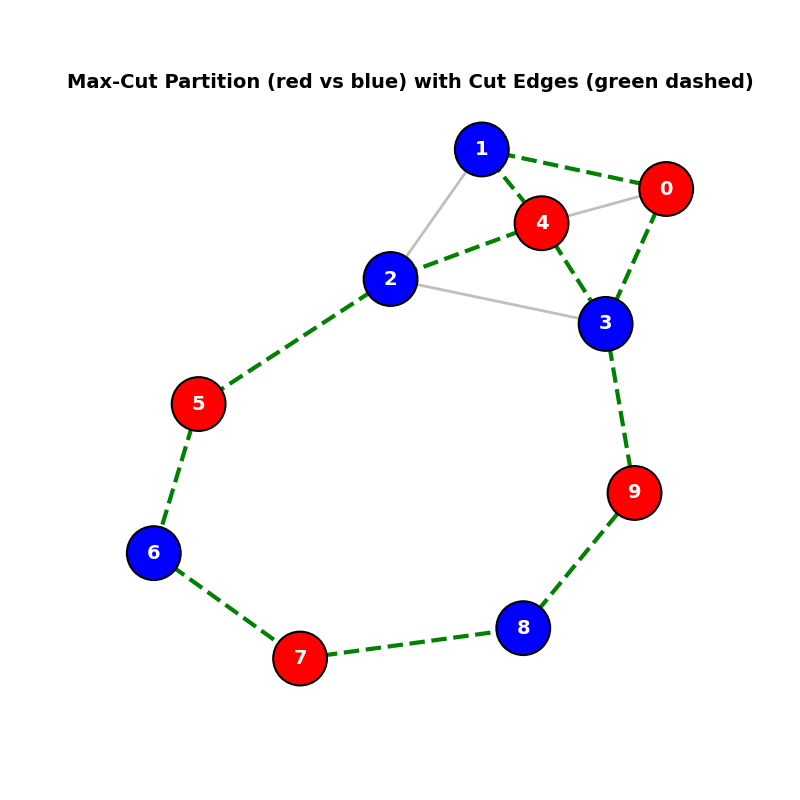
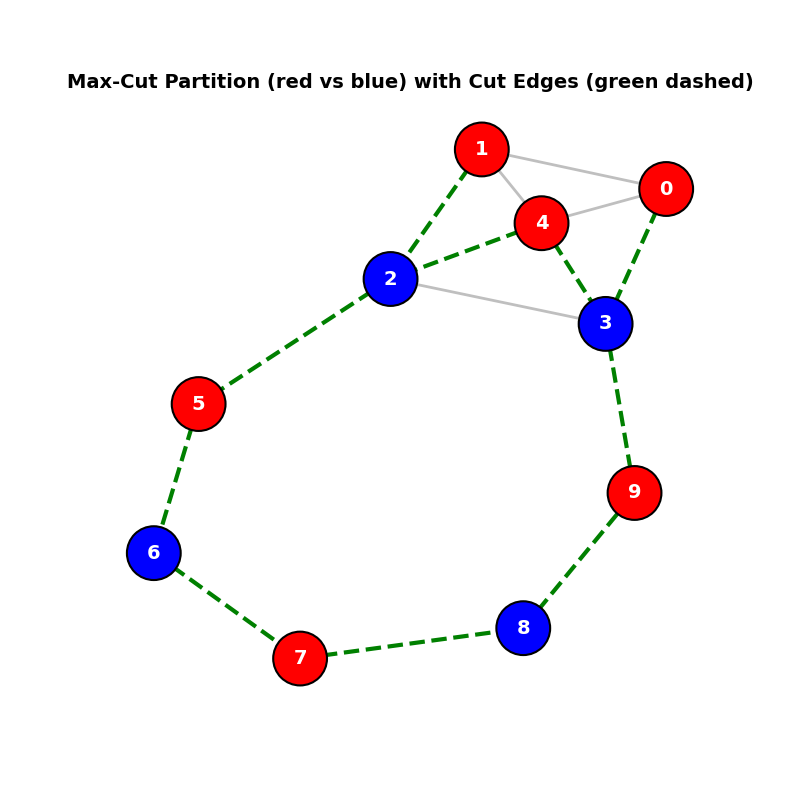
slurm job

diff --git a/maxcut.py b/maxcut.py
@@ -1,0 +1,151 @@
+import numpy as np
+import cudaq
+from cudaq import spin
+from typing import List
+import networkx as nx
+import matplotlib.pyplot as plt
+
+# =============================
+# 1. Global settings
+# =============================
+cudaq.set_target("nvidia")
+cudaq.set_random_seed(13)
+np.random.seed(13)
+
+# =============================
+# 2. Define Graph
+# =============================
+nodes = list(range(10))
+
+edges = [
+    [0,1],[1,2],[2,3],[3,0],
+    [4,0],[4,1],[4,2],[4,3],
+    [5,6],[6,7],[7,8],[8,9],
+    [2,5],[3,9]
+]
+
+edges_src = [e[0] for e in edges]
+edges_tgt = [e[1] for e in edges]
+
+qubit_count = len(nodes)
+layer_count = 2
+parameter_count = 2 * layer_count
+
+# =============================
+# 3. Cost Hamiltonian (Ising)
+# =============================
+def hamiltonian_max_cut(edges_src, edges_tgt):
+    H = 0
+    for u,v in zip(edges_src, edges_tgt):
+        H += 0.5 * (spin.z(u) * spin.z(v) - spin.i(u) * spin.i(v))
+    return H
+
+hamiltonian = hamiltonian_max_cut(edges_src, edges_tgt)
+
+# =============================
+# 4. Problem Unitary (Trotter step)
+# =============================
+@cudaq.kernel
+def qaoa_problem(qubit_0: cudaq.qubit, qubit_1: cudaq.qubit, gamma: float):
+    x.ctrl(qubit_0, qubit_1)
+    rz(2.0 * gamma, qubit_1)
+    x.ctrl(qubit_0, qubit_1)
+
+# =============================
+# 5. Full QAOA Circuit
+# =============================
+@cudaq.kernel
+def qaoa_kernel(qubit_count:int, layer_count:int, edges_src:List[int], edges_tgt:List[int], thetas:List[float]):
+    qreg = cudaq.qvector(qubit_count)
+    h(qreg)
+
+    for i in range(layer_count):
+        for e in range(len(edges_src)):
+            qaoa_problem(qreg[edges_src[e]], qreg[edges_tgt[e]], thetas[i])
+        for q in range(qubit_count):
+            rx(2.0 * thetas[i + layer_count], qreg[q])
+
+# =============================
+# 6. Objective function
+# =============================
+def objective(parameters):
+    return cudaq.observe(
+        qaoa_kernel, hamiltonian,
+        qubit_count, layer_count, edges_src, edges_tgt, parameters
+    ).expectation()
+
+# =============================
+# 7. Classical Optimization
+# =============================
+optimizer = cudaq.optimizers.COBYLA()
+optimizer.initial_parameters = np.random.uniform(-1,1,parameter_count)
+
+opt_val, opt_params = optimizer.optimize(
+    dimensions=parameter_count,
+    function=objective
+)
+
+print("Optimal expectation:", opt_val)
+print("Estimated MaxCut:", -opt_val)
+print("Optimal parameters:", opt_params)
+
+# =============================
+# 8. Sampling optimal circuit
+# =============================
+counts = cudaq.sample(
+    qaoa_kernel, qubit_count, layer_count,
+    edges_src, edges_tgt, opt_params
+)
+
+best_bitstring = max(counts, key=lambda x: counts[x])
+print("Most likely solution:", best_bitstring)
+
+# ===============================
+# 9. Plotting graph and cuts
+# ===============================
+
+partition = best_bitstring
+
+G = nx.Graph()
+G.add_nodes_from(nodes)
+G.add_edges_from(edges)
+
+# Map partition string to colors
+color_map = ["red" if partition[i] == "1" else "blue" for i in nodes]
+
+# --- Identify cut edges (edges crossing partitions) ---
+cut_edges = []
+same_edges = []
+for u, v in edges:
+    if partition[u] != partition[v]:
+        cut_edges.append((u, v))
+    else:
+        same_edges.append((u, v))
+
+print(f"Cuts: {len(cut_edges)}\n")
+# --- Draw the graph ---
+pos = nx.spring_layout(G, seed=42, k=0.5)
+
+plt.figure(figsize=(8, 8))
+
+# Draw nodes
+nx.draw_networkx_nodes(
+    G, pos,
+    node_color=color_map,
+    edgecolors="black",
+    node_size=1500,
+    linewidths=1.5
+)
+
+# Draw edges inside partitions (gray)
+nx.draw_networkx_edges(G, pos, edgelist=same_edges, width=2, edge_color="gray", alpha=0.5)
+
+# Draw cut edges (highlighted)
+nx.draw_networkx_edges(G, pos, edgelist=cut_edges, width=3, edge_color="green", style="dashed")
+
+# Draw labels
+nx.draw_networkx_labels(G, pos, font_size=14, font_color="white", font_weight="bold")
+
+plt.title("Max-Cut Partition (red vs blue) with Cut Edges (green dashed)", fontsize=14, fontweight="bold")
+plt.axis("off")
+plt.savefig("plot.png")

diff --git a/README.md b/README.md
@@ -54,3 +54,11 @@ jupyter-notebook --no-browser --ip=0.0.0.0 --port=8889
 
 Copy the `http://127.0.0.1:8889/tree?...` URL from the output and paste it into your **browser**.
 
+## 5. Submit job using slurm script.
+
+We can simply submit job directly to the cluster, without using jupyter-notebook.
+
+```bash
+sbatch qaoa.job
+```
+One can change number of layers, graphs in maxcut.py script. `qaoa.job` is the job submission script. Finally, checkout result in slurm output (cq_....out).
